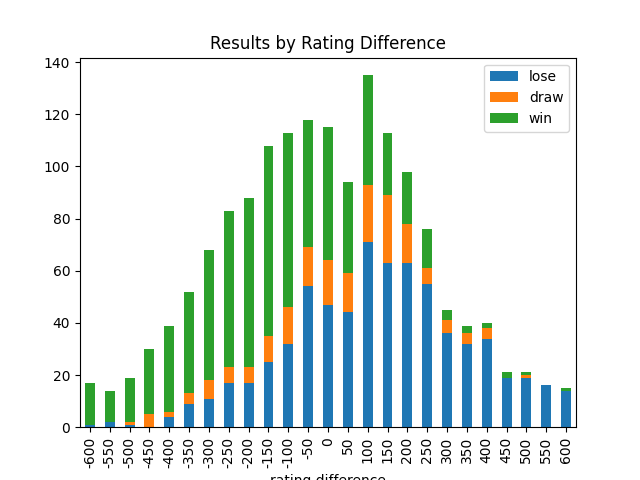
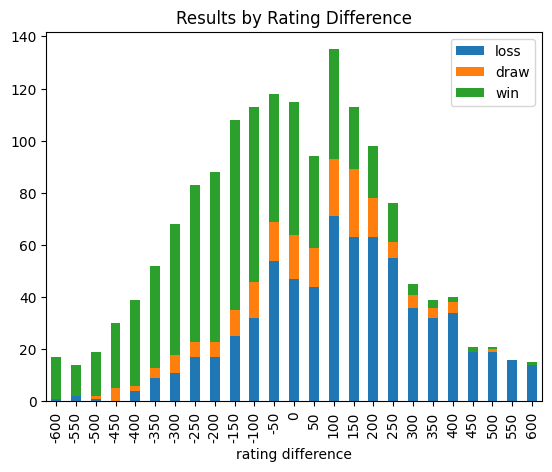
fixed graph size

Changed region(s): [[0.0, 0.0, 0.9855, 1.0], [0.0308, 0.7119, 0.0924, 0.7712], [0.0, 0.0593, 0.0924, 0.089]]

diff --git a/plotprepare.py b/plotprepare.py
@@ -40,14 +40,14 @@ def plotdata(stats):
             circlist.append(circstats)
             diffstats = []
             rating_diff = opp_rating - your_rating
-            #okay this part is gross, but I
+            
             adj_diff = round(rating_diff/50)
             if abs(adj_diff)>12:
                 continue
 
             difflist[adj_diff+12][r(result)]+=1
     df = pd.DataFrame(difflist)
-    df.columns = ['lose', 'draw', 'win']
+    df.columns = ['loss', 'draw', 'win']
     df.insert(0,'rating difference', rowlist)
 
 

diff --git a/graphmaker.py b/graphmaker.py
@@ -15,7 +15,7 @@ def plotcircles(data):
 def barstack(bardata):
     bardata.plot(x='rating difference', kind='bar', stacked=True,
     title='Results by Rating Difference')
-    plt.savefig('graphics/barplot.png')
+    plt.savefig('graphics/barplot.png', bbox_inches='tight')
 
 
 def makegraphics(circledata, bardata):
